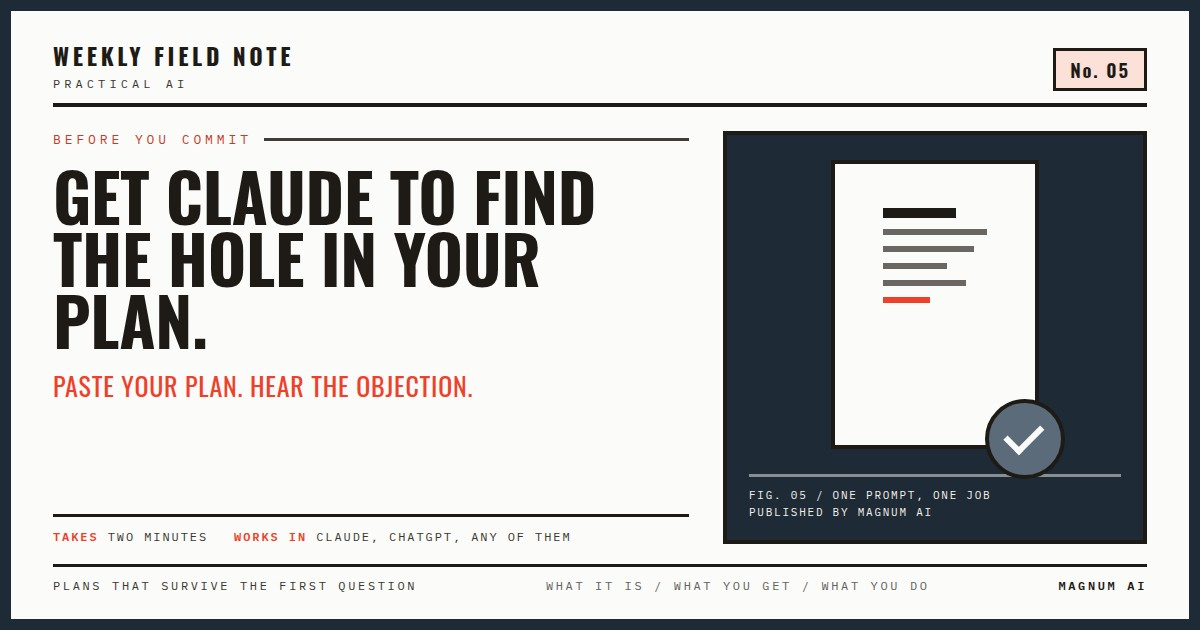
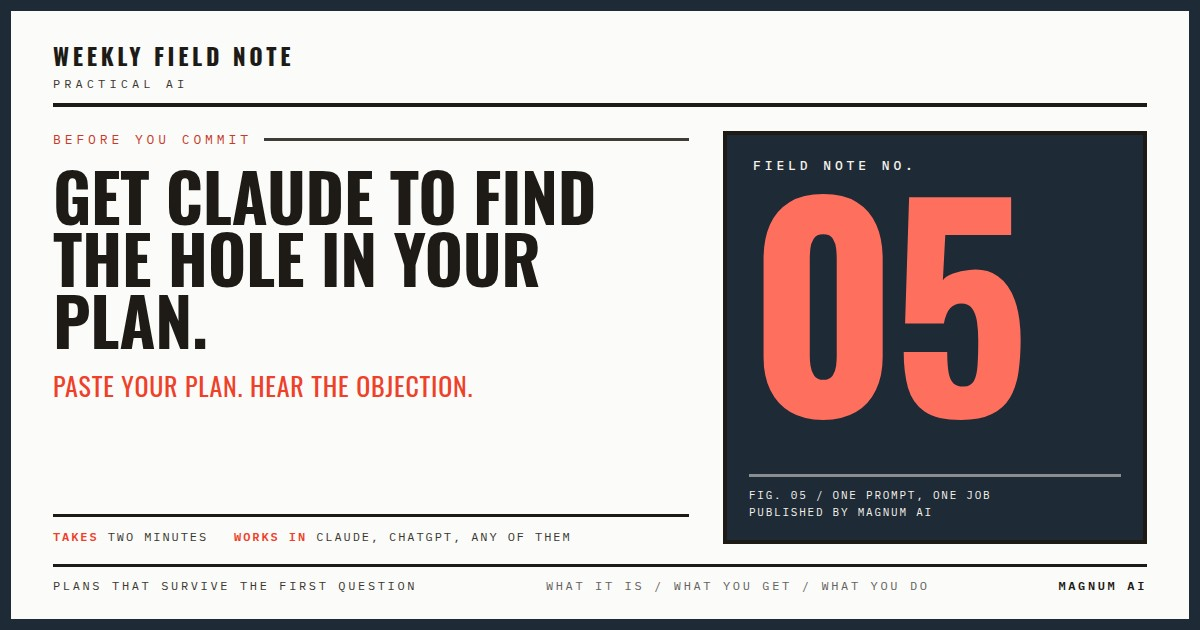
Field Note cards: big bright coral issue number on the navy plate
The navy plate drew the same document figure on every issue, so it said
nothing about which issue it was. It now carries the issue number at
270px in coral-bright, with a small Field Note No. label. The small No.
tag in the masthead goes, so the number is not said twice. All nine
cards re-rendered; the template carries the new plate for the routine.

Claude-Session: https://claude.ai/code/session_016fgTBAV4Smfyt82XSbs6Jm

Changed region(s): [[0.6167, 0.2413, 0.8942, 0.754], [0.8633, 0.0603, 0.9558, 0.1508]]

diff --git a/templates/field-note-thumbnail.html b/templates/field-note-thumbnail.html
@@ -80,6 +80,9 @@ h1{font-family:'Oswald','Arial Narrow','Liberation Sans Narrow',sans-serif;font-
 .foot{border-top:3px solid var(--ink);margin-top:20px;padding-top:11px;display:flex;justify-content:space-between;align-items:center;font-family:'IBM Plex Mono',monospace;font-size:12px;letter-spacing:.22em;text-transform:uppercase;color:var(--charcoal)}
 .foot .mid{color:var(--taupe)}
 .foot .pg{color:var(--ink);font-weight:600}
+.bignum{font-family:'Oswald','Arial Narrow','Liberation Sans Narrow',sans-serif;font-weight:700;font-size:270px;line-height:.8;letter-spacing:-.02em;color:var(--coral-bright);text-align:left;width:100%;padding-top:4px}
+.bignum small{display:block;font-family:'IBM Plex Mono',monospace;font-weight:500;font-size:13px;letter-spacing:.3em;text-transform:uppercase;color:#F4F1EA;margin:0 0 14px 4px;line-height:1}
+.plate .doc-wrap{align-items:flex-start;justify-content:flex-start}
 </style>
 </head>
 <body>
@@ -90,8 +93,6 @@ h1{font-family:'Oswald','Arial Narrow','Liberation Sans Narrow',sans-serif;font-
       <span class="mh-title">Weekly Field Note</span>
       <span class="mh-sub">Practical AI</span>
     </div>
-    <!-- EDIT 2 · issue number -->
-    <div class="mh-issue">No. 01</div>
   </header>
 
   <div class="body">
@@ -110,10 +111,9 @@ h1{font-family:'Oswald','Arial Narrow','Liberation Sans Narrow',sans-serif;font-
 
     <div class="plate">
       <div class="doc-wrap">
-        <div class="doc">
-          <i></i><i></i><i></i><i></i><i></i><i></i>
-          <div class="tick"></div>
-        </div>
+        <!-- EDIT 2 · issue number, two digits, and the same number in the Fig. line.
+             The big bright coral number on the navy plate is the card's mark since 14 Oct. -->
+        <div class="bignum"><small>Field Note No.</small>01</div>
       </div>
       <div class="plate-cap">Fig. 01 / One page, no questions asked<br>Published by Magnum AI</div>
     </div>

diff --git a/newsletter/field-note-08-thumbnail.html b/newsletter/field-note-08-thumbnail.html
@@ -79,6 +79,9 @@ h1{font-family:'Oswald','Arial Narrow','Liberation Sans Narrow',sans-serif;font-
 .foot{border-top:3px solid var(--ink);margin-top:20px;padding-top:11px;display:flex;justify-content:space-between;align-items:center;font-family:'IBM Plex Mono',monospace;font-size:12px;letter-spacing:.22em;text-transform:uppercase;color:var(--charcoal)}
 .foot .mid{color:var(--taupe)}
 .foot .pg{color:var(--ink);font-weight:600}
+.bignum{font-family:'Oswald','Arial Narrow','Liberation Sans Narrow',sans-serif;font-weight:700;font-size:270px;line-height:.8;letter-spacing:-.02em;color:var(--coral-bright);text-align:left;width:100%;padding-top:4px}
+.bignum small{display:block;font-family:'IBM Plex Mono',monospace;font-weight:500;font-size:13px;letter-spacing:.3em;text-transform:uppercase;color:#F4F1EA;margin:0 0 14px 4px;line-height:1}
+.plate .doc-wrap{align-items:flex-start;justify-content:flex-start}
 </style>
 </head>
 <body>
@@ -89,7 +92,6 @@ h1{font-family:'Oswald','Arial Narrow','Liberation Sans Narrow',sans-serif;font-
       <span class="mh-title">Weekly Field Note</span>
       <span class="mh-sub">Practical AI</span>
     </div>
-    <div class="mh-issue">No. 08</div>
   </header>
 
   <div class="body">
@@ -105,10 +107,7 @@ h1{font-family:'Oswald','Arial Narrow','Liberation Sans Narrow',sans-serif;font-
 
     <div class="plate">
       <div class="doc-wrap">
-        <div class="doc">
-          <i></i><i></i><i></i><i></i><i></i><i></i>
-          <div class="tick"></div>
-        </div>
+        <div class="bignum"><small>Field Note No.</small>08</div>
       </div>
       <div class="plate-cap">Fig. 08 / The reply you'd write on a good day<br>Published by Magnum AI</div>
     </div>

diff --git a/newsletter/field-note-07-thumbnail.html b/newsletter/field-note-07-thumbnail.html
@@ -79,6 +79,9 @@ h1{font-family:'Oswald','Arial Narrow','Liberation Sans Narrow',sans-serif;font-
 .foot{border-top:3px solid var(--ink);margin-top:20px;padding-top:11px;display:flex;justify-content:space-between;align-items:center;font-family:'IBM Plex Mono',monospace;font-size:12px;letter-spacing:.22em;text-transform:uppercase;color:var(--charcoal)}
 .foot .mid{color:var(--taupe)}
 .foot .pg{color:var(--ink);font-weight:600}
+.bignum{font-family:'Oswald','Arial Narrow','Liberation Sans Narrow',sans-serif;font-weight:700;font-size:270px;line-height:.8;letter-spacing:-.02em;color:var(--coral-bright);text-align:left;width:100%;padding-top:4px}
+.bignum small{display:block;font-family:'IBM Plex Mono',monospace;font-weight:500;font-size:13px;letter-spacing:.3em;text-transform:uppercase;color:#F4F1EA;margin:0 0 14px 4px;line-height:1}
+.plate .doc-wrap{align-items:flex-start;justify-content:flex-start}
 </style>
 </head>
 <body>
@@ -89,7 +92,6 @@ h1{font-family:'Oswald','Arial Narrow','Liberation Sans Narrow',sans-serif;font-
       <span class="mh-title">Weekly Field Note</span>
       <span class="mh-sub">Practical AI</span>
     </div>
-    <div class="mh-issue">No. 07</div>
   </header>
 
   <div class="body">
@@ -105,10 +107,7 @@ h1{font-family:'Oswald','Arial Narrow','Liberation Sans Narrow',sans-serif;font-
 
     <div class="plate">
       <div class="doc-wrap">
-        <div class="doc">
-          <i></i><i></i><i></i><i></i><i></i><i></i>
-          <div class="tick"></div>
-        </div>
+        <div class="bignum"><small>Field Note No.</small>07</div>
       </div>
       <div class="plate-cap">Fig. 07 / Your bill, not the average plan<br>Published by Magnum AI</div>
     </div>

diff --git a/newsletter/field-note-09-thumbnail.html b/newsletter/field-note-09-thumbnail.html
@@ -79,6 +79,9 @@ h1{font-family:'Oswald','Arial Narrow','Liberation Sans Narrow',sans-serif;font-
 .foot{border-top:3px solid var(--ink);margin-top:20px;padding-top:11px;display:flex;justify-content:space-between;align-items:center;font-family:'IBM Plex Mono',monospace;font-size:12px;letter-spacing:.22em;text-transform:uppercase;color:var(--charcoal)}
 .foot .mid{color:var(--taupe)}
 .foot .pg{color:var(--ink);font-weight:600}
+.bignum{font-family:'Oswald','Arial Narrow','Liberation Sans Narrow',sans-serif;font-weight:700;font-size:270px;line-height:.8;letter-spacing:-.02em;color:var(--coral-bright);text-align:left;width:100%;padding-top:4px}
+.bignum small{display:block;font-family:'IBM Plex Mono',monospace;font-weight:500;font-size:13px;letter-spacing:.3em;text-transform:uppercase;color:#F4F1EA;margin:0 0 14px 4px;line-height:1}
+.plate .doc-wrap{align-items:flex-start;justify-content:flex-start}
 </style>
 </head>
 <body>
@@ -89,7 +92,6 @@ h1{font-family:'Oswald','Arial Narrow','Liberation Sans Narrow',sans-serif;font-
       <span class="mh-title">Weekly Field Note</span>
       <span class="mh-sub">Practical AI</span>
     </div>
-    <div class="mh-issue">No. 09</div>
   </header>
 
   <div class="body">
@@ -105,10 +107,7 @@ h1{font-family:'Oswald','Arial Narrow','Liberation Sans Narrow',sans-serif;font-
 
     <div class="plate">
       <div class="doc-wrap">
-        <div class="doc">
-          <i></i><i></i><i></i><i></i><i></i><i></i>
-          <div class="tick"></div>
-        </div>
+        <div class="bignum"><small>Field Note No.</small>09</div>
       </div>
       <div class="plate-cap">Fig. 09 / The mistake nobody else saw<br>Published by Magnum AI</div>
     </div>

diff --git a/newsletter/field-note-01-thumbnail.html b/newsletter/field-note-01-thumbnail.html
@@ -79,6 +79,9 @@ h1{font-family:'Oswald','Arial Narrow','Liberation Sans Narrow',sans-serif;font-
 .foot{border-top:3px solid var(--ink);margin-top:20px;padding-top:11px;display:flex;justify-content:space-between;align-items:center;font-family:'IBM Plex Mono',monospace;font-size:12px;letter-spacing:.22em;text-transform:uppercase;color:var(--charcoal)}
 .foot .mid{color:var(--taupe)}
 .foot .pg{color:var(--ink);font-weight:600}
+.bignum{font-family:'Oswald','Arial Narrow','Liberation Sans Narrow',sans-serif;font-weight:700;font-size:270px;line-height:.8;letter-spacing:-.02em;color:var(--coral-bright);text-align:left;width:100%;padding-top:4px}
+.bignum small{display:block;font-family:'IBM Plex Mono',monospace;font-weight:500;font-size:13px;letter-spacing:.3em;text-transform:uppercase;color:#F4F1EA;margin:0 0 14px 4px;line-height:1}
+.plate .doc-wrap{align-items:flex-start;justify-content:flex-start}
 </style>
 </head>
 <body>
@@ -89,7 +92,6 @@ h1{font-family:'Oswald','Arial Narrow','Liberation Sans Narrow',sans-serif;font-
       <span class="mh-title">Weekly Field Note</span>
       <span class="mh-sub">Practical AI</span>
     </div>
-    <div class="mh-issue">No. 01</div>
   </header>
 
   <div class="body">
@@ -105,10 +107,7 @@ h1{font-family:'Oswald','Arial Narrow','Liberation Sans Narrow',sans-serif;font-
 
     <div class="plate">
       <div class="doc-wrap">
-        <div class="doc">
-          <i></i><i></i><i></i><i></i><i></i><i></i>
-          <div class="tick"></div>
-        </div>
+        <div class="bignum"><small>Field Note No.</small>01</div>
       </div>
       <div class="plate-cap">Fig. 01 / One prompt, one job<br>Published by Magnum AI</div>
     </div>

diff --git a/newsletter/field-note-02-thumbnail.html b/newsletter/field-note-02-thumbnail.html
@@ -79,6 +79,9 @@ h1{font-family:'Oswald','Arial Narrow','Liberation Sans Narrow',sans-serif;font-
 .foot{border-top:3px solid var(--ink);margin-top:20px;padding-top:11px;display:flex;justify-content:space-between;align-items:center;font-family:'IBM Plex Mono',monospace;font-size:12px;letter-spacing:.22em;text-transform:uppercase;color:var(--charcoal)}
 .foot .mid{color:var(--taupe)}
 .foot .pg{color:var(--ink);font-weight:600}
+.bignum{font-family:'Oswald','Arial Narrow','Liberation Sans Narrow',sans-serif;font-weight:700;font-size:270px;line-height:.8;letter-spacing:-.02em;color:var(--coral-bright);text-align:left;width:100%;padding-top:4px}
+.bignum small{display:block;font-family:'IBM Plex Mono',monospace;font-weight:500;font-size:13px;letter-spacing:.3em;text-transform:uppercase;color:#F4F1EA;margin:0 0 14px 4px;line-height:1}
+.plate .doc-wrap{align-items:flex-start;justify-content:flex-start}
 </style>
 </head>
 <body>
@@ -89,7 +92,6 @@ h1{font-family:'Oswald','Arial Narrow','Liberation Sans Narrow',sans-serif;font-
       <span class="mh-title">Weekly Field Note</span>
       <span class="mh-sub">Practical AI</span>
     </div>
-    <div class="mh-issue">No. 02</div>
   </header>
 
   <div class="body">
@@ -105,10 +107,7 @@ h1{font-family:'Oswald','Arial Narrow','Liberation Sans Narrow',sans-serif;font-
 
     <div class="plate">
       <div class="doc-wrap">
-        <div class="doc">
-          <i></i><i></i><i></i><i></i><i></i><i></i>
-          <div class="tick"></div>
-        </div>
+        <div class="bignum"><small>Field Note No.</small>02</div>
       </div>
       <div class="plate-cap">Fig. 02 / One prompt, one job<br>Published by Magnum AI</div>
     </div>

diff --git a/newsletter/field-note-03-thumbnail.html b/newsletter/field-note-03-thumbnail.html
@@ -79,6 +79,9 @@ h1{font-family:'Oswald','Arial Narrow','Liberation Sans Narrow',sans-serif;font-
 .foot{border-top:3px solid var(--ink);margin-top:20px;padding-top:11px;display:flex;justify-content:space-between;align-items:center;font-family:'IBM Plex Mono',monospace;font-size:12px;letter-spacing:.22em;text-transform:uppercase;color:var(--charcoal)}
 .foot .mid{color:var(--taupe)}
 .foot .pg{color:var(--ink);font-weight:600}
+.bignum{font-family:'Oswald','Arial Narrow','Liberation Sans Narrow',sans-serif;font-weight:700;font-size:270px;line-height:.8;letter-spacing:-.02em;color:var(--coral-bright);text-align:left;width:100%;padding-top:4px}
+.bignum small{display:block;font-family:'IBM Plex Mono',monospace;font-weight:500;font-size:13px;letter-spacing:.3em;text-transform:uppercase;color:#F4F1EA;margin:0 0 14px 4px;line-height:1}
+.plate .doc-wrap{align-items:flex-start;justify-content:flex-start}
 </style>
 </head>
 <body>
@@ -89,7 +92,6 @@ h1{font-family:'Oswald','Arial Narrow','Liberation Sans Narrow',sans-serif;font-
       <span class="mh-title">Weekly Field Note</span>
       <span class="mh-sub">Practical AI</span>
     </div>
-    <div class="mh-issue">No. 03</div>
   </header>
 
   <div class="body">
@@ -105,10 +107,7 @@ h1{font-family:'Oswald','Arial Narrow','Liberation Sans Narrow',sans-serif;font-
 
     <div class="plate">
       <div class="doc-wrap">
-        <div class="doc">
-          <i></i><i></i><i></i><i></i><i></i><i></i>
-          <div class="tick"></div>
-        </div>
+        <div class="bignum"><small>Field Note No.</small>03</div>
       </div>
       <div class="plate-cap">Fig. 03 / One prompt, one job<br>Published by Magnum AI</div>
     </div>

diff --git a/newsletter/field-note-04-thumbnail.html b/newsletter/field-note-04-thumbnail.html
@@ -79,6 +79,9 @@ h1{font-family:'Oswald','Arial Narrow','Liberation Sans Narrow',sans-serif;font-
 .foot{border-top:3px solid var(--ink);margin-top:20px;padding-top:11px;display:flex;justify-content:space-between;align-items:center;font-family:'IBM Plex Mono',monospace;font-size:12px;letter-spacing:.22em;text-transform:uppercase;color:var(--charcoal)}
 .foot .mid{color:var(--taupe)}
 .foot .pg{color:var(--ink);font-weight:600}
+.bignum{font-family:'Oswald','Arial Narrow','Liberation Sans Narrow',sans-serif;font-weight:700;font-size:270px;line-height:.8;letter-spacing:-.02em;color:var(--coral-bright);text-align:left;width:100%;padding-top:4px}
+.bignum small{display:block;font-family:'IBM Plex Mono',monospace;font-weight:500;font-size:13px;letter-spacing:.3em;text-transform:uppercase;color:#F4F1EA;margin:0 0 14px 4px;line-height:1}
+.plate .doc-wrap{align-items:flex-start;justify-content:flex-start}
 </style>
 </head>
 <body>
@@ -89,7 +92,6 @@ h1{font-family:'Oswald','Arial Narrow','Liberation Sans Narrow',sans-serif;font-
       <span class="mh-title">Weekly Field Note</span>
       <span class="mh-sub">Practical AI</span>
     </div>
-    <div class="mh-issue">No. 04</div>
   </header>
 
   <div class="body">
@@ -105,10 +107,7 @@ h1{font-family:'Oswald','Arial Narrow','Liberation Sans Narrow',sans-serif;font-
 
     <div class="plate">
       <div class="doc-wrap">
-        <div class="doc">
-          <i></i><i></i><i></i><i></i><i></i><i></i>
-          <div class="tick"></div>
-        </div>
+        <div class="bignum"><small>Field Note No.</small>04</div>
       </div>
       <div class="plate-cap">Fig. 04 / One prompt, one job<br>Published by Magnum AI</div>
     </div>

diff --git a/newsletter/field-note-05-thumbnail.html b/newsletter/field-note-05-thumbnail.html
@@ -79,6 +79,9 @@ h1{font-family:'Oswald','Arial Narrow','Liberation Sans Narrow',sans-serif;font-
 .foot{border-top:3px solid var(--ink);margin-top:20px;padding-top:11px;display:flex;justify-content:space-between;align-items:center;font-family:'IBM Plex Mono',monospace;font-size:12px;letter-spacing:.22em;text-transform:uppercase;color:var(--charcoal)}
 .foot .mid{color:var(--taupe)}
 .foot .pg{color:var(--ink);font-weight:600}
+.bignum{font-family:'Oswald','Arial Narrow','Liberation Sans Narrow',sans-serif;font-weight:700;font-size:270px;line-height:.8;letter-spacing:-.02em;color:var(--coral-bright);text-align:left;width:100%;padding-top:4px}
+.bignum small{display:block;font-family:'IBM Plex Mono',monospace;font-weight:500;font-size:13px;letter-spacing:.3em;text-transform:uppercase;color:#F4F1EA;margin:0 0 14px 4px;line-height:1}
+.plate .doc-wrap{align-items:flex-start;justify-content:flex-start}
 </style>
 </head>
 <body>
@@ -89,7 +92,6 @@ h1{font-family:'Oswald','Arial Narrow','Liberation Sans Narrow',sans-serif;font-
       <span class="mh-title">Weekly Field Note</span>
       <span class="mh-sub">Practical AI</span>
     </div>
-    <div class="mh-issue">No. 05</div>
   </header>
 
   <div class="body">
@@ -105,10 +107,7 @@ h1{font-family:'Oswald','Arial Narrow','Liberation Sans Narrow',sans-serif;font-
 
     <div class="plate">
       <div class="doc-wrap">
-        <div class="doc">
-          <i></i><i></i><i></i><i></i><i></i><i></i>
-          <div class="tick"></div>
-        </div>
+        <div class="bignum"><small>Field Note No.</small>05</div>
       </div>
       <div class="plate-cap">Fig. 05 / One prompt, one job<br>Published by Magnum AI</div>
     </div>

diff --git a/newsletter/field-note-06-thumbnail.html b/newsletter/field-note-06-thumbnail.html
@@ -79,6 +79,9 @@ h1{font-family:'Oswald','Arial Narrow','Liberation Sans Narrow',sans-serif;font-
 .foot{border-top:3px solid var(--ink);margin-top:20px;padding-top:11px;display:flex;justify-content:space-between;align-items:center;font-family:'IBM Plex Mono',monospace;font-size:12px;letter-spacing:.22em;text-transform:uppercase;color:var(--charcoal)}
 .foot .mid{color:var(--taupe)}
 .foot .pg{color:var(--ink);font-weight:600}
+.bignum{font-family:'Oswald','Arial Narrow','Liberation Sans Narrow',sans-serif;font-weight:700;font-size:270px;line-height:.8;letter-spacing:-.02em;color:var(--coral-bright);text-align:left;width:100%;padding-top:4px}
+.bignum small{display:block;font-family:'IBM Plex Mono',monospace;font-weight:500;font-size:13px;letter-spacing:.3em;text-transform:uppercase;color:#F4F1EA;margin:0 0 14px 4px;line-height:1}
+.plate .doc-wrap{align-items:flex-start;justify-content:flex-start}
 </style>
 </head>
 <body>
@@ -89,7 +92,6 @@ h1{font-family:'Oswald','Arial Narrow','Liberation Sans Narrow',sans-serif;font-
       <span class="mh-title">Weekly Field Note</span>
       <span class="mh-sub">Practical AI</span>
     </div>
-    <div class="mh-issue">No. 06</div>
   </header>
 
   <div class="body">
@@ -105,10 +107,7 @@ h1{font-family:'Oswald','Arial Narrow','Liberation Sans Narrow',sans-serif;font-
 
     <div class="plate">
       <div class="doc-wrap">
-        <div class="doc">
-          <i></i><i></i><i></i><i></i><i></i><i></i>
-          <div class="tick"></div>
-        </div>
+        <div class="bignum"><small>Field Note No.</small>06</div>
       </div>
       <div class="plate-cap">Fig. 06 / One prompt, one job<br>Published by Magnum AI</div>
     </div>
